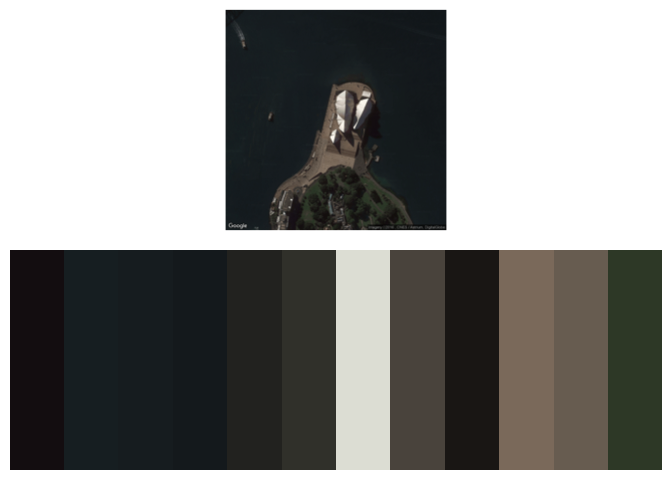
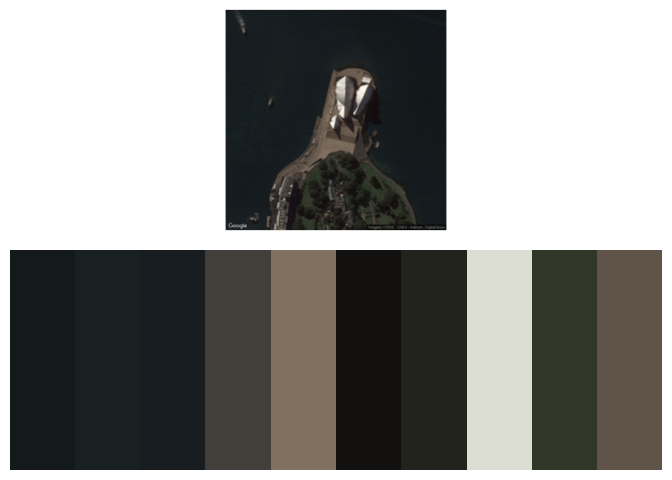
changes following cran check

diff --git a/README.md b/README.md
@@ -7,7 +7,7 @@ Here is how to install the package:
 
 ``` r
 if(!require(devtools)) install.packages("devtools")
-devtools::install_github("wcornwell/earthtones")
+#devtools::install_github("wcornwell/earthtones")
 library("earthtones")
 ```
 
@@ -55,7 +55,7 @@ get_earthtones(latitude = 37.81391, longitude=-122.478289, zoom=19, number_of_co
 or Sydney Opera House :
 
 ``` r
-get_earthtones(latitude = -33.857077, longitude=151.214722, zoom=17, number_of_colors=12)
+get_earthtones(latitude = -33.85745, longitude=151.214722, zoom=17, number_of_colors=10)
 ```
 
 ![](readme_files/figure-markdown_github/opera-1.png)
@@ -77,7 +77,7 @@ ggplot(iris, aes(x=Petal.Length, y=Petal.Width, col=Species))+
 And now Fisher's irises are colored in a Bahama style. However, actually data from two of the three iris speces was collected by a botanist named Edgar Anderson from the [Gaspé Peninsula in Quebec](https://www.jstor.org/stable/2394164?seq=1#page_scan_tab_contents), so it might be better to use a color scheme from there for those two species.
 
 ``` r
-iris.from.gaspe <- dplyr::filter(iris, Species!="virginica")
+iris.from.gaspe <- subset(iris, iris$Species!="virginica")
 
 get_earthtones(latitude = 48.7709,
   longitude=-64.660939,zoom=9,number_of_colors = 2)
